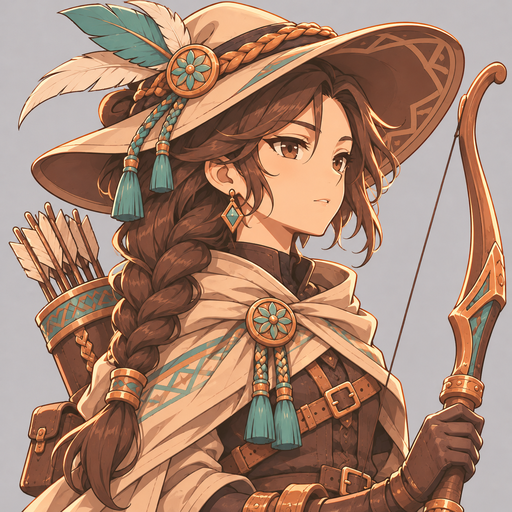
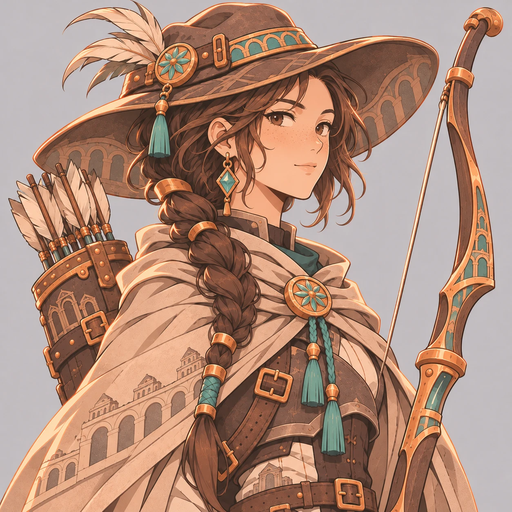
feat: ネムの肖像を 2 枚目に差し替え、ユニットの絵を置く（DES-NG-08）
肖像は同じ指示文で作り直した 2 枚目。ユニットの絵（128×128）は、差し替え前の 1 枚目の肖像から
作られたと見られ、2 枚目とは帽子の色などが合わない。台帳に事実を注記（開発者に確認中）。

Claude-Session: https://claude.ai/code/session_01Gwc8HGbd5fkwvE2Ki4XAgt

diff --git a/data/alchemy/media/ASSETS.md b/data/alchemy/media/ASSETS.md
@@ -48,4 +48,5 @@
 | `art/units/tori.png` | AI 生成（ChatGPT）。元の 1254×1254 の画像（背景は緑）を、緑の背景を透過にし（クロマキー。縁の緑かぶりを除去）、人物の範囲で切り出して正方形に整え、128×128 の PNG に縮小した（ほかの全身の絵と同じ処理） | ChatGPT（GPT-6、チャットモード）、2026-11-13。加工は Python（Pillow・NumPy）の使い捨てのスクリプト | 「Use the first attached image as a style reference: match its art style, line weight, shading, color treatment and chibi proportions. The second attached image shows the same character in a portrait: keep exactly the same face, hair, outfit, colors and accessories, and redraw the character as a full-body chibi following the first image's proportions. 2D hand-drawn anime-style illustration, soft cel shading with subtle texture, clean thin-to-medium outlines, slightly desaturated palette with amber/copper and aqua-teal as the only vivid accents, fantasy ancient stone city setting, no text, no letters, no watermark. Full-body chibi character, 2.5 heads tall, front three-quarter view, standing pose, centered, entire body visible with margin on all sides, plain flat solid bright-green background (for cutting out), square 1:1. a lean, tall young man around 19 with short messy hair and an energetic expression, wearing brown leather armor with a muted ochre-yellow scarf, copper buckles, holding a long spear taller than himself.」（`docs/01_concept/new-game-prompts.md` の「トーリ — ユニットの絵」の組み立て済みの指示文の全文。改行は空白に置き換えた。生成のとき、①アオイの全身の絵（絵柄の見本）、②トーリの肖像 `art/portraits/tori.png`（人物の見本）を添付した。**生成時に指示文を変えていないかは、開発者に確認中**）。笑った顔・頬の傷・髪の橙のメッシュ・胸の花の留め具と房飾り・腰の小瓶と鞄・マントの模様などは、指示になく、生成側が足したもの（肖像から引き継いだ）。頬の傷と胸の花の留め具は、ダインとも共通する。先に置いていた、肖像を見本にしない版の全身の絵は、この絵に置き換えた | ChatGPT（OpenAI）の利用規約とコンテンツポリシーを、開発者が確認した（アオイの絵と同じ）。**確認した条項の番号と版は、まだ記録していない（開発者が追記する）** | 2026-11-13 | 開発者 |
 | `art/portraits/dain.png` | AI 生成（ChatGPT）。元の 1254×1254 の画像を、512×512 の PNG に縮小しただけで、ほかの加工はしていない | ChatGPT（GPT-6、チャットモード）、2026-11-13 | 「Use the attached image as a style reference: match its art style, line weight, shading and color treatment, but draw a different character as described below. 2D hand-drawn anime-style illustration, soft cel shading with subtle texture, clean thin-to-medium outlines, slightly desaturated palette with amber/copper and aqua-teal as the only vivid accents, fantasy ancient stone city setting, no text, no letters, no watermark. Bust-up portrait, 3/4 view, calm expression, soft warm rim light, plain flat light-gray background, square 1:1. a broad-shouldered, sturdy man in his late 30s with a calm, dependable expression, short cropped hair and a light beard, wearing heavy iron-gray plate armor with an indigo cloth sash, copper rivets and buckles, holding a large tower shield and a spear.」（`docs/01_concept/new-game-prompts.md` の「ダイン — 肖像」の組み立て済みの指示文の全文。改行は空白に置き換えた。生成のとき、参照画像はアオイの肖像だけを添付した。**生成時に指示文を変えていないかは、開発者に確認中**）。頬の傷・胸の花の留め具と房飾り・盾の街と柱廊の模様・鎧の肩の模様などは、指示になく、生成側が足したもの | ChatGPT（OpenAI）の利用規約とコンテンツポリシーを、開発者が確認した（アオイの絵と同じ）。**確認した条項の番号と版は、まだ記録していない（開発者が追記する）** | 2026-11-13 | 開発者 |
 | `art/portraits/tori.png` | AI 生成（ChatGPT）。元の 1254×1254 の画像を、512×512 の PNG に縮小しただけで、ほかの加工はしていない | ChatGPT（GPT-6、チャットモード）、2026-11-13 | 「Use the attached image as a style reference: match its art style, line weight, shading and color treatment, but draw a different character as described below. 2D hand-drawn anime-style illustration, soft cel shading with subtle texture, clean thin-to-medium outlines, slightly desaturated palette with amber/copper and aqua-teal as the only vivid accents, fantasy ancient stone city setting, no text, no letters, no watermark. Bust-up portrait, 3/4 view, calm expression, soft warm rim light, plain flat light-gray background, square 1:1. a lean, tall young man around 19 with short messy hair and an energetic expression, wearing brown leather armor with a muted ochre-yellow scarf, copper buckles, holding a long spear taller than himself.」（`docs/01_concept/new-game-prompts.md` の「トーリ — 肖像」の組み立て済みの指示文の全文。改行は空白に置き換えた。生成のとき、参照画像はアオイの肖像だけを添付した。**生成時に指示文を変えていないかは、開発者に確認中**）。笑った顔・頬の傷・髪の橙のメッシュ・胸の花の留め具と房飾り・スカーフの幾何学の模様と房・小瓶（腰）などは、指示になく、生成側が足したもの。胸の花の留め具と房飾り、頬の傷は、ダインの肖像とも共通する | ChatGPT（OpenAI）の利用規約とコンテンツポリシーを、開発者が確認した（アオイの絵と同じ）。**確認した条項の番号と版は、まだ記録していない（開発者が追記する）** | 2026-11-13 | 開発者 |
-| `art/portraits/nemu.png` | AI 生成（ChatGPT）。元の 1254×1254 の画像を、512×512 の PNG に縮小しただけで、ほかの加工はしていない | ChatGPT（GPT-6、チャットモード）、2026-11-13 | 「Use the attached image as a style reference: match its art style, line weight, shading and color treatment, but draw a different character as described below. 2D hand-drawn anime-style illustration, soft cel shading with subtle texture, clean thin-to-medium outlines, slightly desaturated palette with amber/copper and aqua-teal as the only vivid accents, fantasy ancient stone city setting, no text, no letters, no watermark. Bust-up portrait, 3/4 view, calm expression, soft warm rim light, plain flat light-gray background, square 1:1. a tall, athletic woman in her mid-20s with a long braid over her shoulder and a calm, focused look, wearing a wide-brimmed hat and a sand-colored cloak with an aqua-teal cord and a copper clasp, carrying a longbow nearly as tall as her and a quiver.」（`docs/01_concept/new-game-prompts.md` の「ネム — 肖像」の組み立て済みの指示文の全文。改行は空白に置き換えた。生成のとき、参照画像はアオイの肖像だけを添付した。**生成時に指示文を変えていないかは、開発者に確認中**）。帽子の羽根と花の留め具、イヤリング、矢筒の模様、胸の花の留め具と房飾り（ダイン・トーリの肖像と共通）などは、指示になく、生成側が足したもの | ChatGPT（OpenAI）の利用規約とコンテンツポリシーを、開発者が確認した（アオイの絵と同じ）。**確認した条項の番号と版は、まだ記録していない（開発者が追記する）** | 2026-11-13 | 開発者 |
+| `art/portraits/nemu.png` | AI 生成（ChatGPT）。元の 1254×1254 の画像を、512×512 の PNG に縮小しただけで、ほかの加工はしていない。**同じ指示文で作り直した 2 枚目**で、1 枚目（コミット 9394da6 の `portraits/nemu.png`）と差し替えた | ChatGPT（GPT-6、チャットモード）、2026-11-13 | 「Use the attached image as a style reference: match its art style, line weight, shading and color treatment, but draw a different character as described below. 2D hand-drawn anime-style illustration, soft cel shading with subtle texture, clean thin-to-medium outlines, slightly desaturated palette with amber/copper and aqua-teal as the only vivid accents, fantasy ancient stone city setting, no text, no letters, no watermark. Bust-up portrait, 3/4 view, calm expression, soft warm rim light, plain flat light-gray background, square 1:1. a tall, athletic woman in her mid-20s with a long braid over her shoulder and a calm, focused look, wearing a wide-brimmed hat and a sand-colored cloak with an aqua-teal cord and a copper clasp, carrying a longbow nearly as tall as her and a quiver.」（`docs/01_concept/new-game-prompts.md` の「ネム — 肖像」の組み立て済みの指示文の全文。改行は空白に置き換えた。生成のとき、参照画像はアオイの肖像だけを添付した。**生成時に指示文を変えていないかは、開発者に確認中**）。茶色の帽子の羽根（白）と花の留め具、そばかす、イヤリング、帽子と外套の石造りのアーチの模様、矢筒の模様、胸の花の留め具と房飾り（ダイン・トーリの肖像と共通）などは、指示になく、生成側が足したもの | ChatGPT（OpenAI）の利用規約とコンテンツポリシーを、開発者が確認した（アオイの絵と同じ）。**確認した条項の番号と版は、まだ記録していない（開発者が追記する）** | 2026-11-13 | 開発者 |
+| `art/units/nemu.png` | AI 生成（ChatGPT）。元の 1254×1254 の画像（背景は緑）を、緑の背景を透過にし（クロマキー。縁の緑かぶりを除去）、人物の範囲で切り出して正方形に整え、128×128 の PNG に縮小した（ほかの全身の絵と同じ処理） | ChatGPT（GPT-6、チャットモード）、2026-11-13。加工は Python（Pillow・NumPy）の使い捨てのスクリプト | 「Use the first attached image as a style reference: match its art style, line weight, shading, color treatment and chibi proportions. The second attached image shows the same character in a portrait: keep exactly the same face, hair, outfit, colors and accessories, and redraw the character as a full-body chibi following the first image's proportions. 2D hand-drawn anime-style illustration, soft cel shading with subtle texture, clean thin-to-medium outlines, slightly desaturated palette with amber/copper and aqua-teal as the only vivid accents, fantasy ancient stone city setting, no text, no letters, no watermark. Full-body chibi character, 2.5 heads tall, front three-quarter view, standing pose, centered, entire body visible with margin on all sides, plain flat solid bright-green background (for cutting out), square 1:1. a tall, athletic woman in her mid-20s with a long braid over her shoulder and a calm, focused look, wearing a wide-brimmed hat and a sand-colored cloak with an aqua-teal cord and a copper clasp, carrying a longbow nearly as tall as her and a quiver.」（`docs/01_concept/new-game-prompts.md` の「ネム — ユニットの絵」の組み立て済みの指示文の全文。改行は空白に置き換えた。生成のとき、①アオイの全身の絵（絵柄の見本）、②ネムの肖像（人物の見本）を添付した。**②は、置いてある肖像（2 枚目）ではなく、差し替え前の 1 枚目（コミット 9394da6）だと見られる。帽子の色（クリーム色）と羽根（青緑）が 1 枚目と一致し、2 枚目（茶色の帽子、白い羽根、そばかす）と一致しないことからの、親エージェントの推定で、開発者に確認中**。生成時に指示文を変えていないかも確認中）。帽子の羽根と花の留め具・イヤリング・矢筒の模様・外套の石造りのアーチの模様・腰の鞄と小瓶などは、指示になく、生成側が足したもの | ChatGPT（OpenAI）の利用規約とコンテンツポリシーを、開発者が確認した（アオイの絵と同じ）。**確認した条項の番号と版は、まだ記録していない（開発者が追記する）** | 2026-11-13 | 開発者 |
